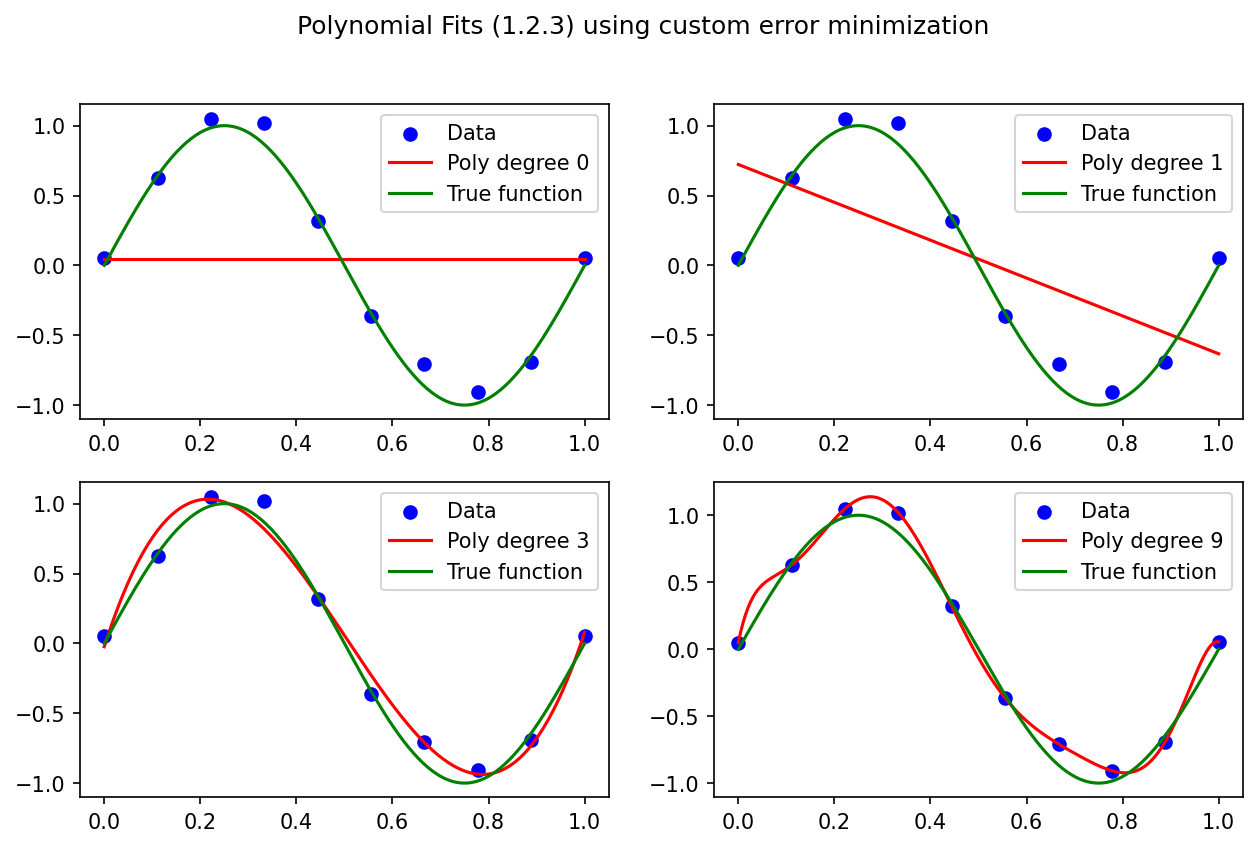
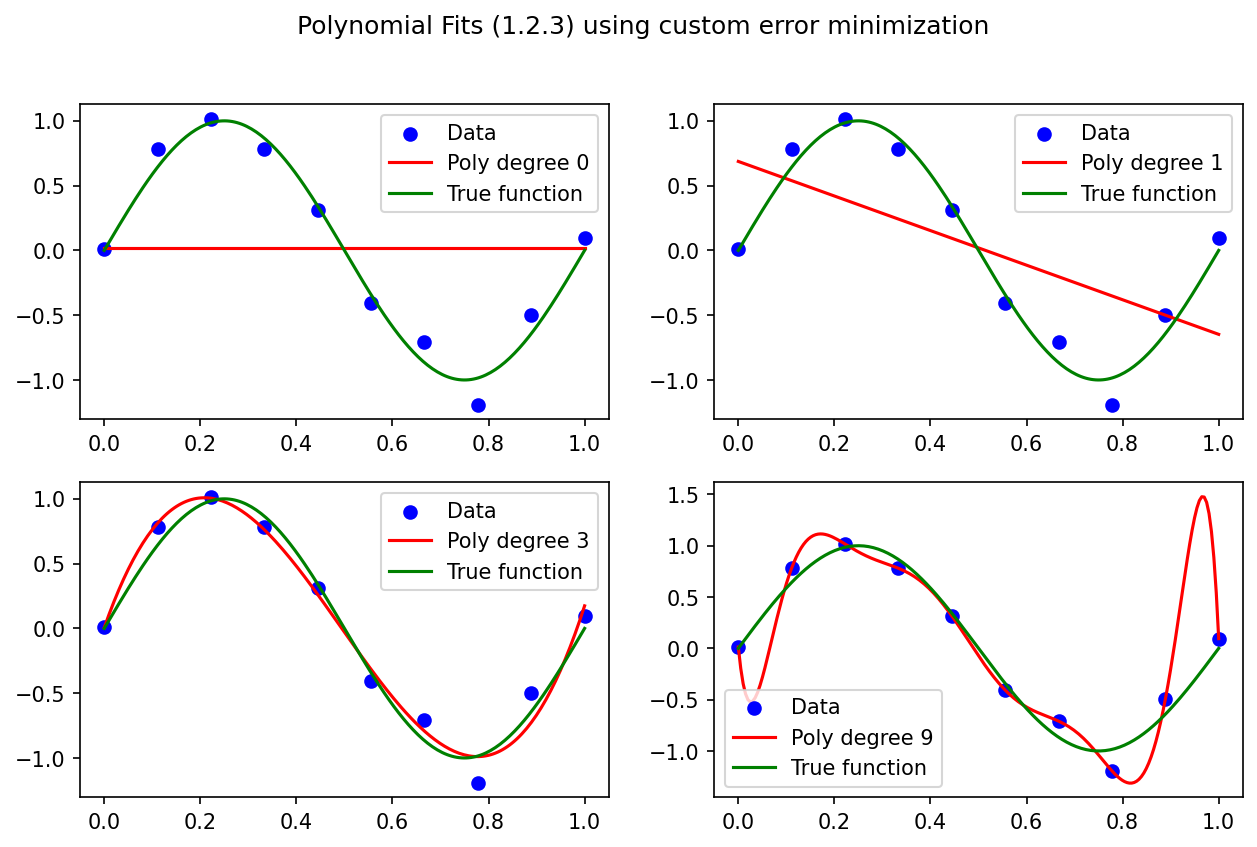
update seed inferences

diff --git a/chapter_1/1.2-polynomial-fitting.py b/chapter_1/1.2-polynomial-fitting.py
@@ -2,6 +2,16 @@
 import numpy as np
 import matplotlib.pyplot as plt
 np.random.seed(999)
+# seed 42 gave worse plots with train error > test error. for order=1 or 2, train error > test error.
+# seed 999 gives good plots, but regularization error plots don't spike for ln lambda < -25 like in textbook. for order = 1 or 2, train error > test error.
+# seed 3 gives alright plots, train error < test error for all orders, but train error is greater for some ln lambda values when looking at regularization plots.
+# seed 35 best seed after 999, but error does not spike as high as expected for M=9. same issue for ln lambda < -25.
+# seed 6 doesn't have high error for M=9 but shows slight error increase for ln lambda < -25.
+# seed 70 has high error for M=9, but train error > test error for M=1,2 and some ln lambda values.
+# seeds 352, 824, 80, 200, 666, 700 not ideal
+
+
+
 
 
 # 1.2.1) Synthetic data
